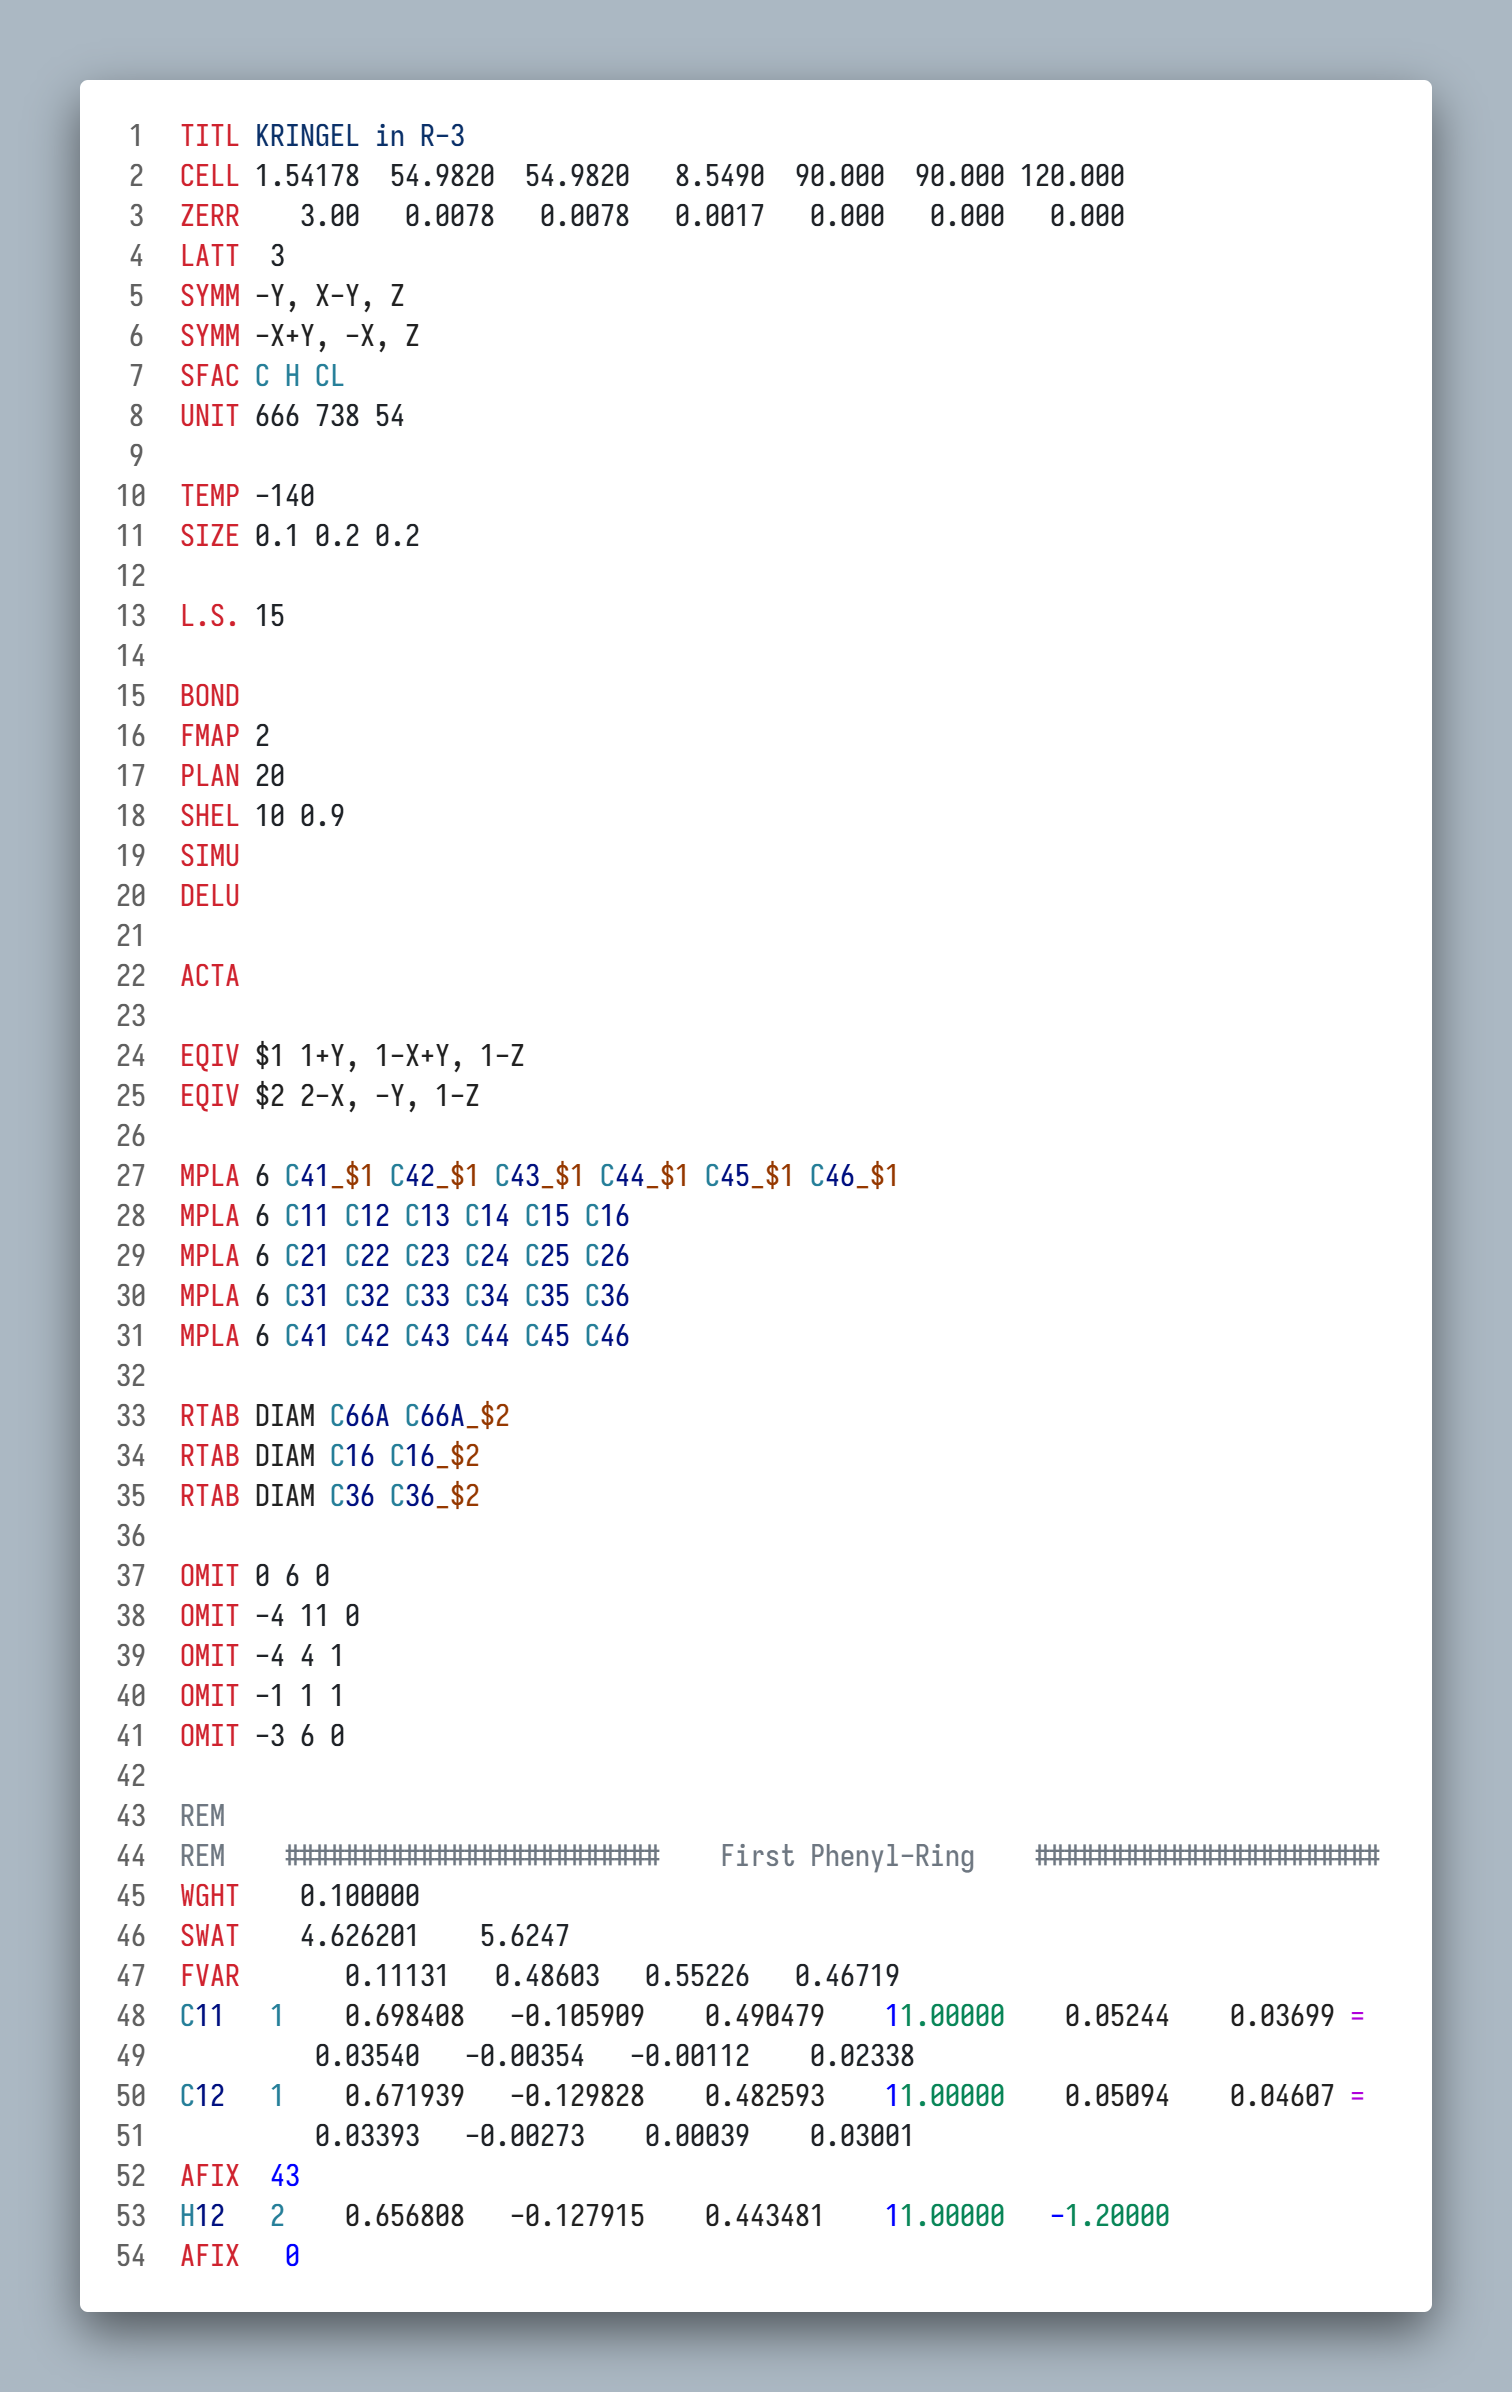
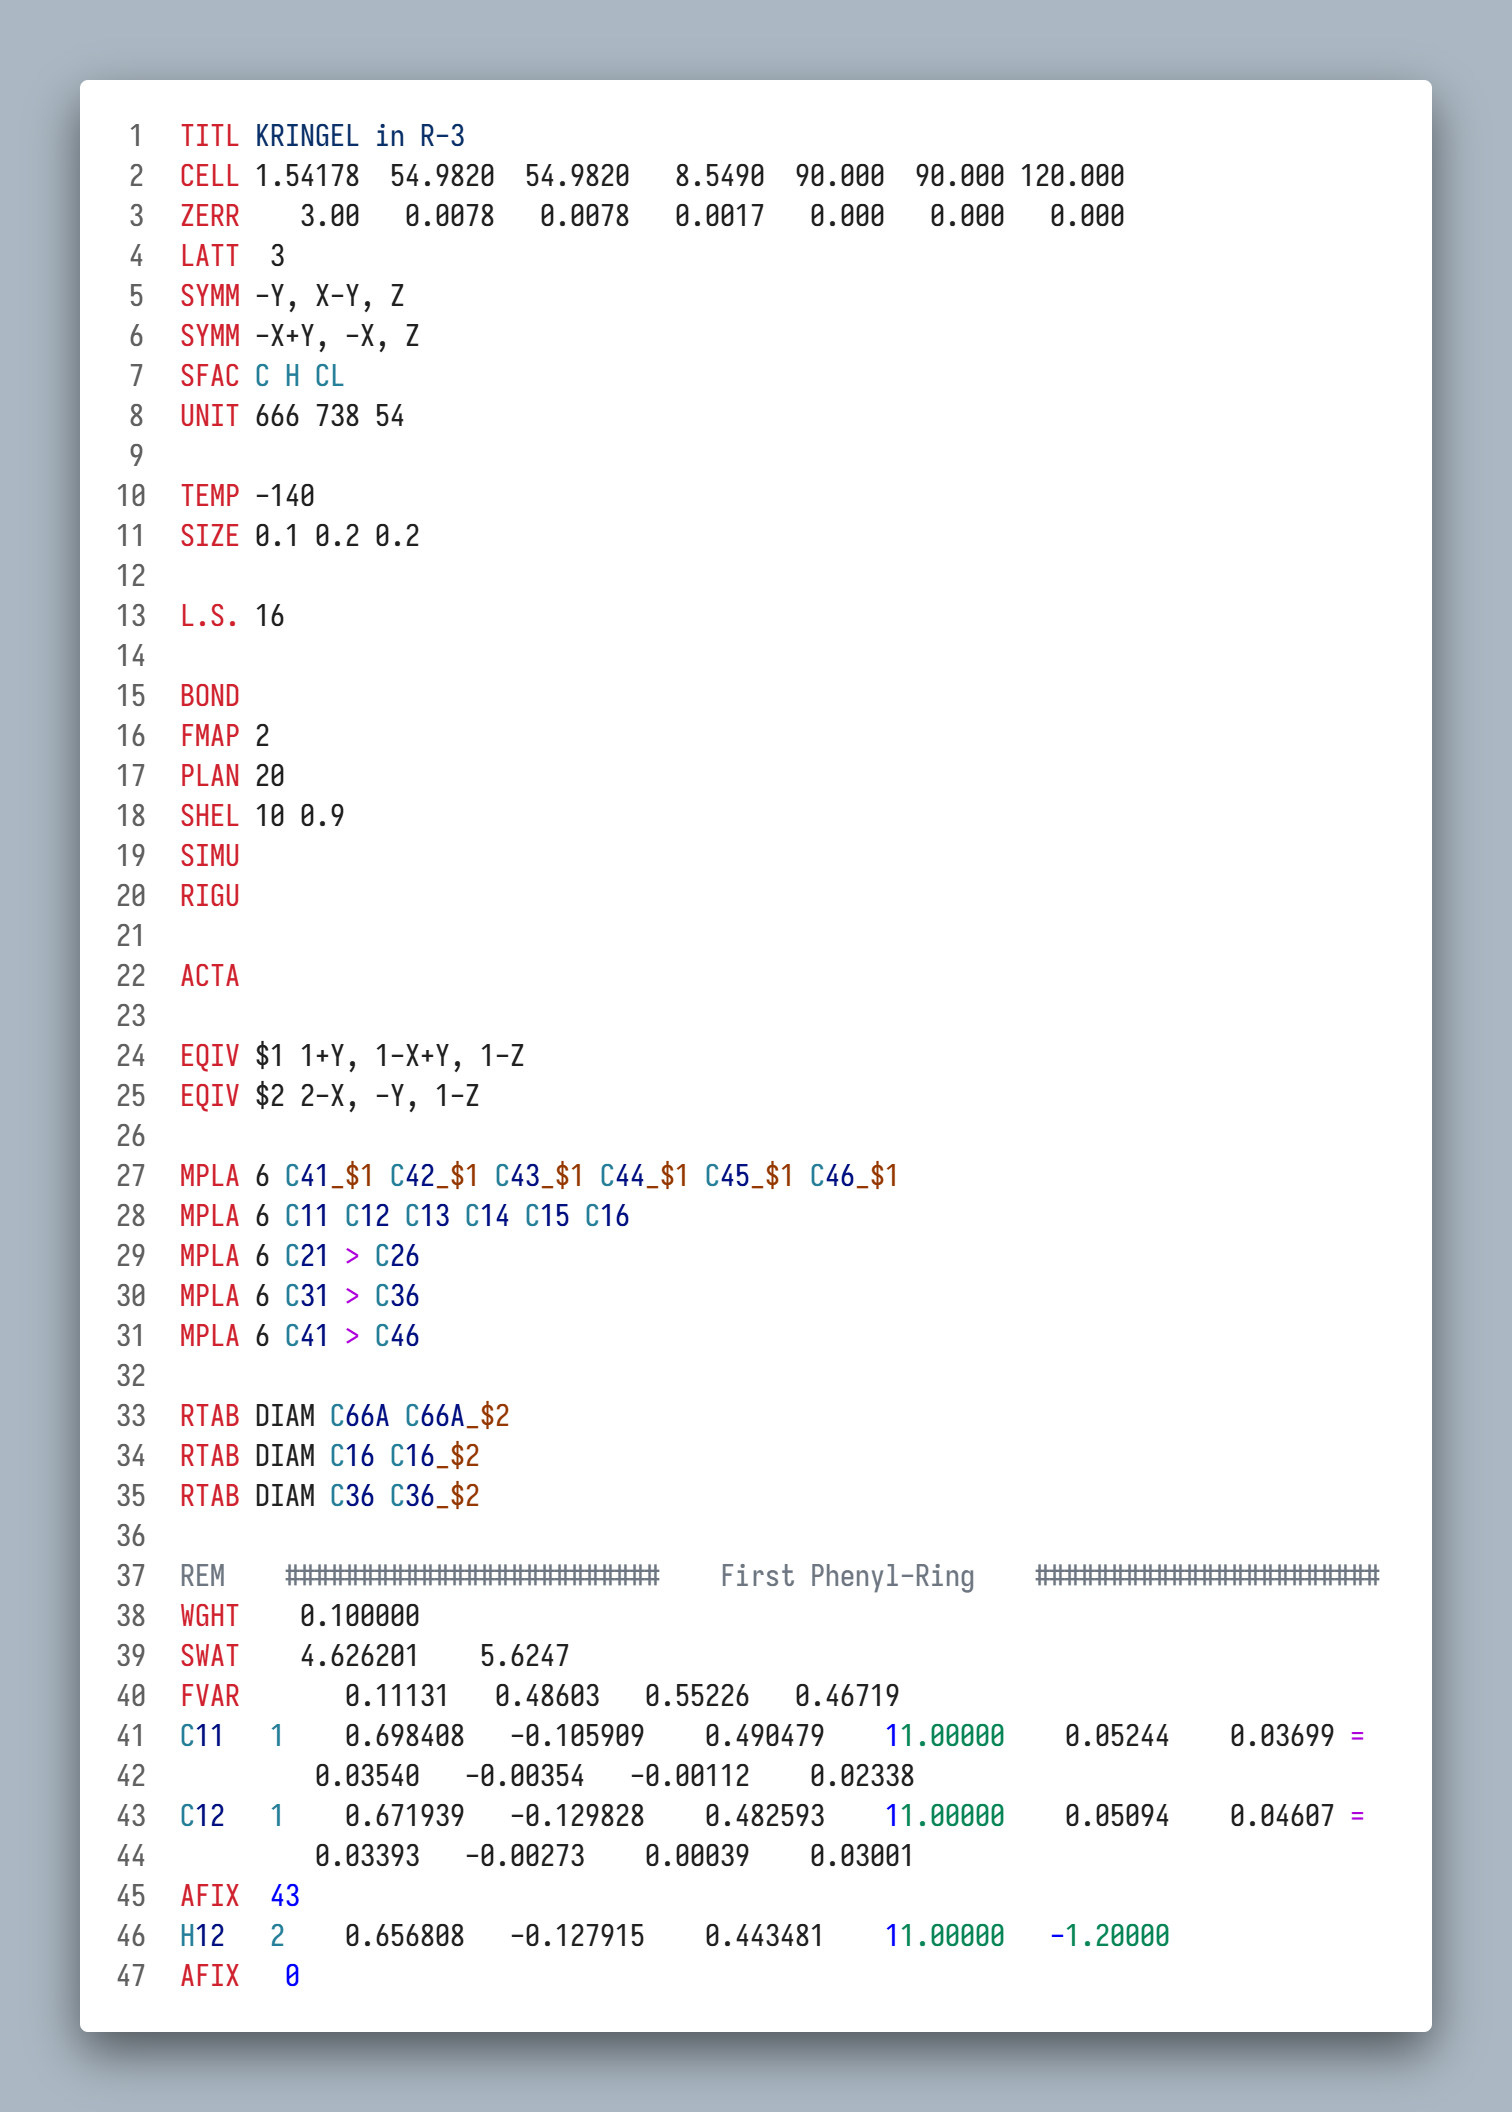
v0.1.3

diff --git a/CHANGELOG.md b/CHANGELOG.md
@@ -1,5 +1,12 @@
 # Change Log
 
+## 0.1.3
+
+- Disable indentation-related features in editor configuration defaults
+- Fix: recognize numbers without digits before the decimal point
+- Fix: improve handling of overlong lines
+- Fix: improve handling of various edge cases
+
 ## 0.1.2 (20261026)
 
 - Fix: numbers are not colored consistently in atom coordinates

diff --git a/README.md b/README.md
@@ -8,4 +8,4 @@ Syntax highlighting for the [SHELX](https://shelx.uni-goettingen.de/) instructio
 
 ## License
 
-GNU GPLv3.
+&copy; 2026 Alvin Q. Meng. This plugin is licensed under the GNU GPL, version 3.
